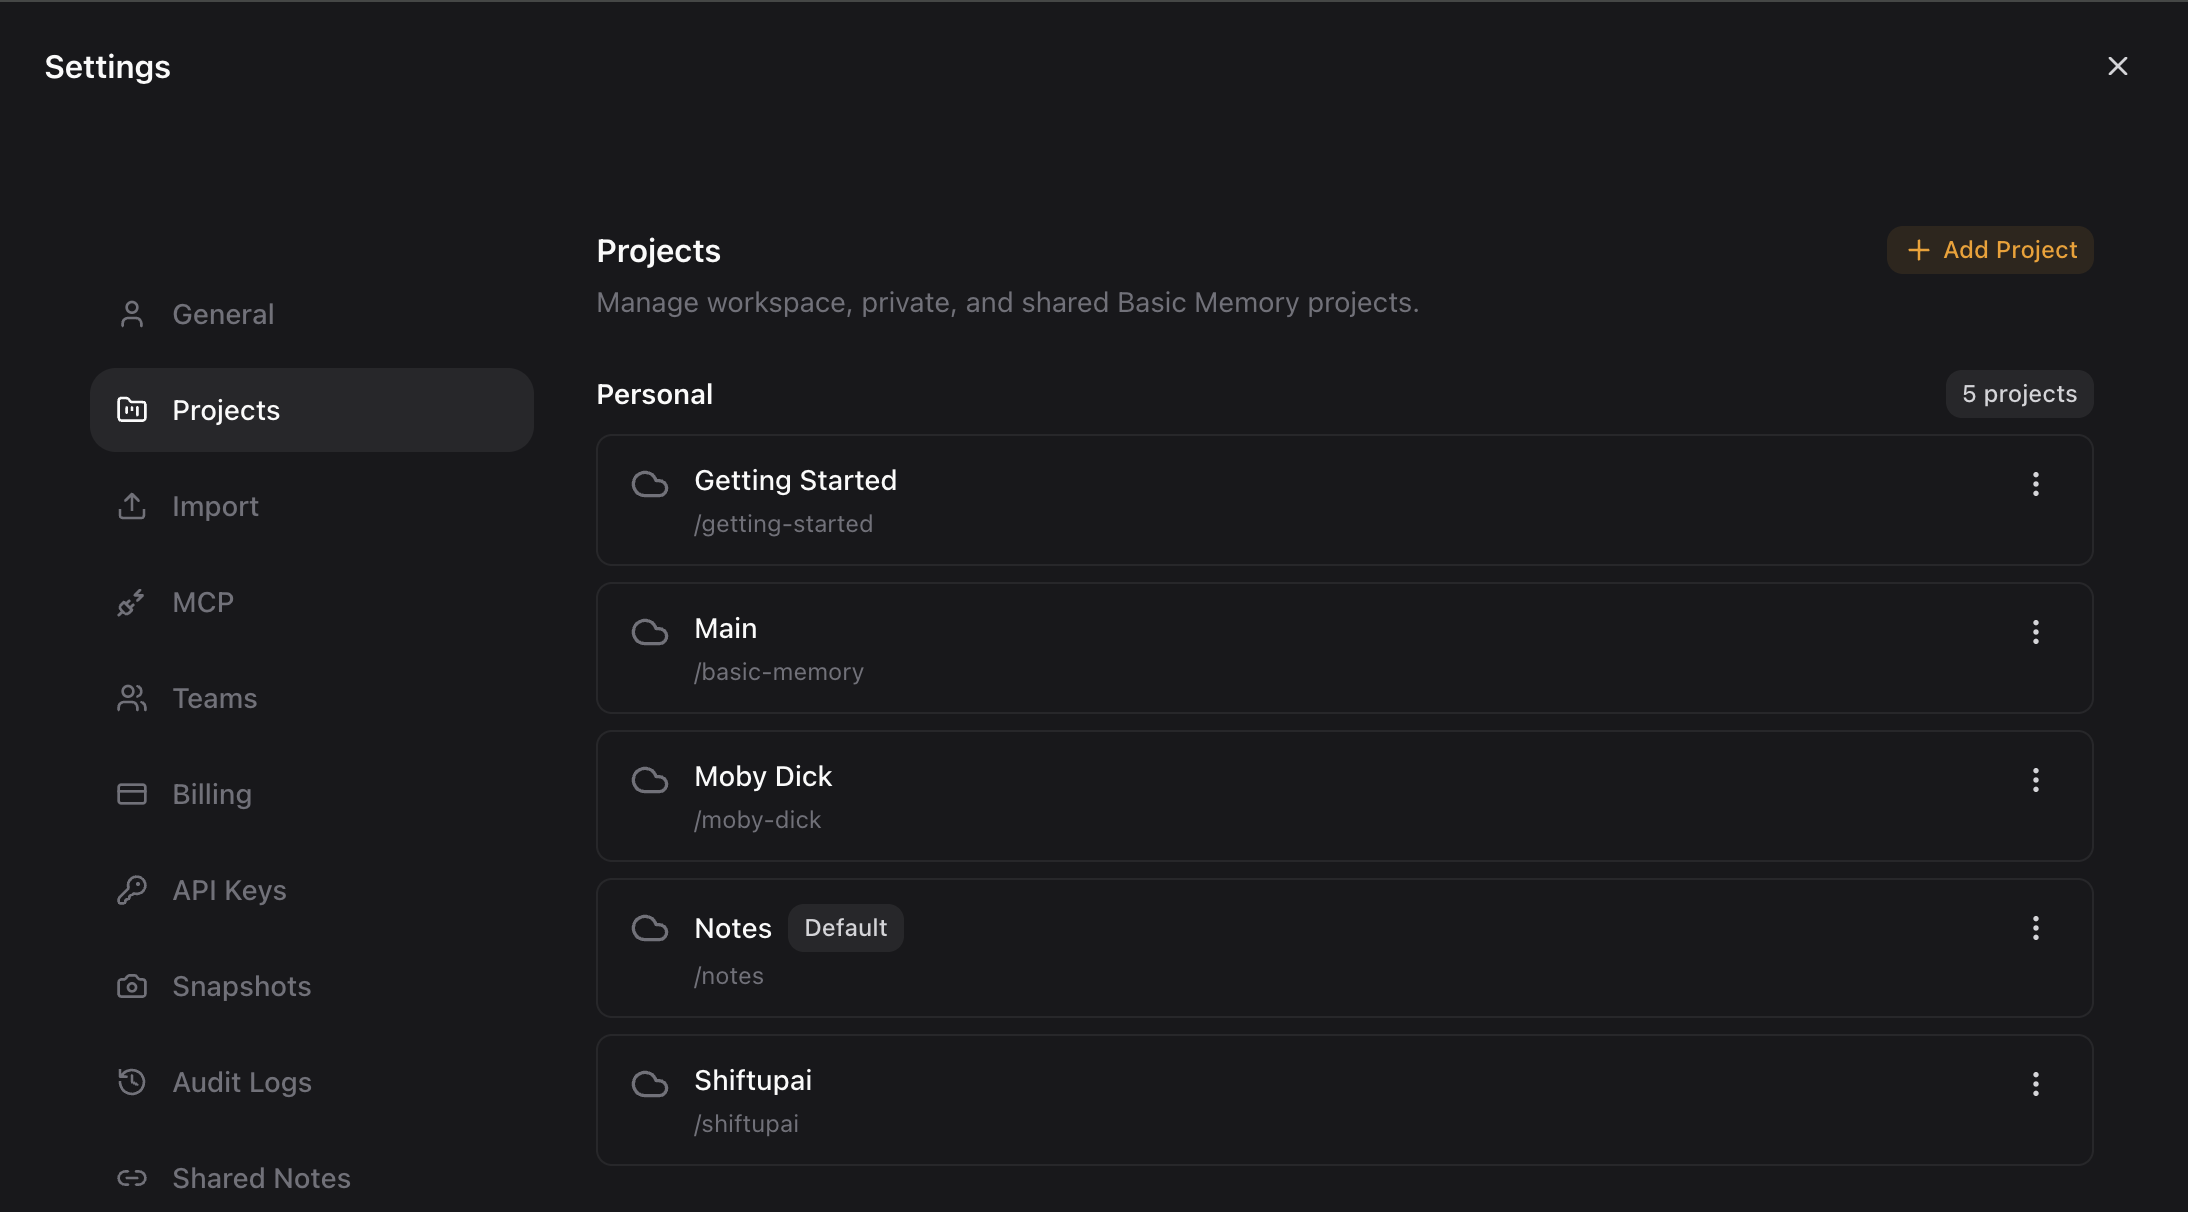
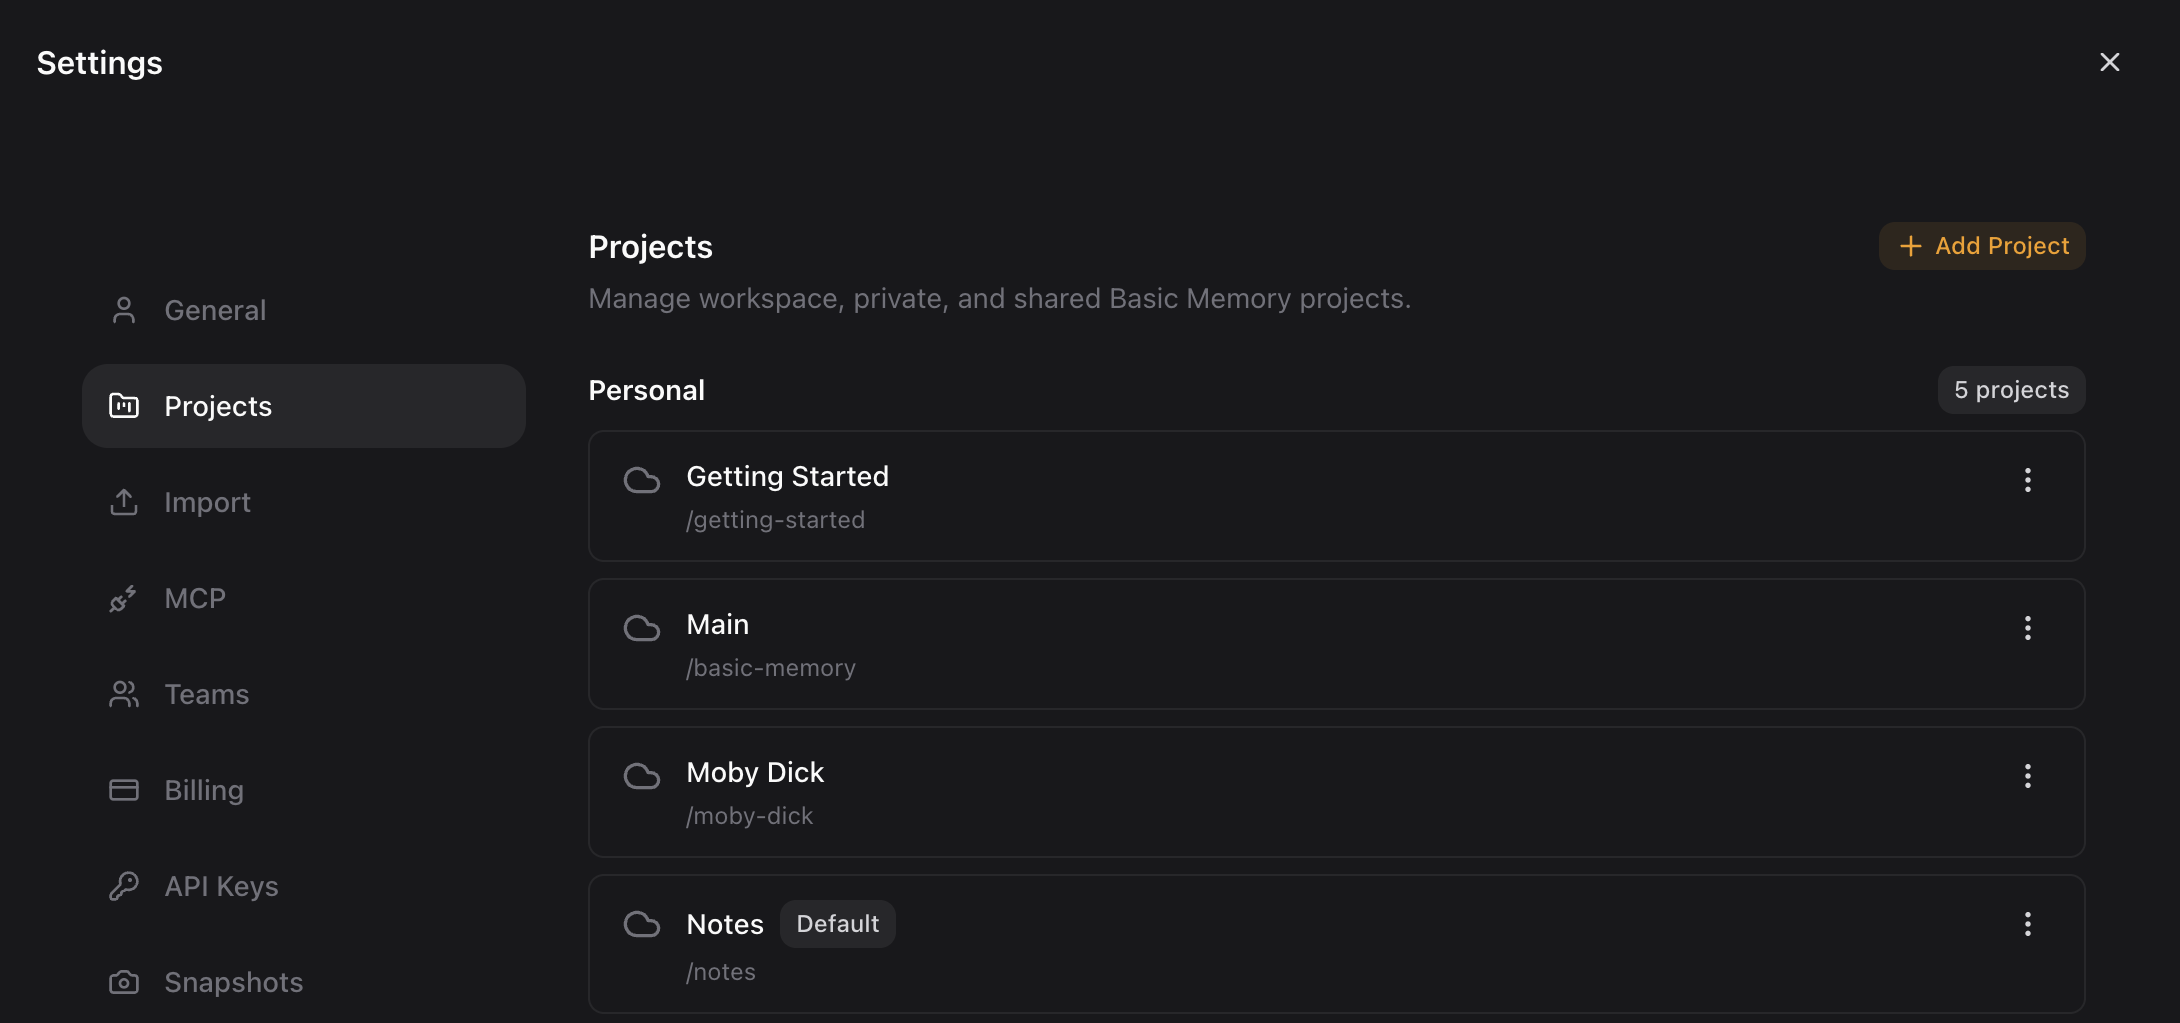
update images, add claude research mode

diff --git a/content/7.integrations/12.claude-research-mode.md b/content/7.integrations/12.claude-research-mode.md
@@ -1,0 +1,82 @@
+---
+title: Claude Research Mode
+description: Why your MCP connectors (including Basic Memory) aren't available during a Claude advanced-research run — and the recommended flow for combining research with your knowledge base.
+---
+
+When you turn on **advanced research**, Claude hands your request to a dedicated research agent that works across the web and Google Drive. That agent runs in its own environment and **does not have access to your connected MCP servers** — including Basic Memory, Gmail, Google Calendar, and any other connectors. This is a limitation of research mode itself, not of any individual connector: every MCP connector is unavailable during a research run, in the same way.
+
+What this means in practice:
+
+- **During a research run,** Claude can't read from or write to Basic Memory (or call any other connector's tools). It will research using web and Drive sources only.
+- **After a research run finishes,** control returns to the normal conversation — which _does_ have your connectors. At that point Claude can save the results to Basic Memory, draft an email, add a calendar event, and so on.
+
+So research and your connectors aren't combined in a single step, but they chain cleanly: **research first, then act on the results with your connectors second.**
+
+---
+
+## Recommended flow: research → save to Basic Memory
+
+::steps
+### Turn advanced research on
+
+Toggle **advanced research** in the message composer, then run your query — for example, _"survey how other agent-memory tools expose graph APIs."_
+
+### Wait for the report
+
+Let the research run complete. The report comes back inline in the conversation.
+
+### Turn advanced research off
+
+Use the same toggle to drop back into normal conversation. This is the important step — leaving research on keeps connectors out of reach.
+
+### Ask Claude to save it
+
+Now you're back in the normal tool path. Ask Claude to write up the results — _"Save that as a note in my `research` project"_ — and it can call Basic Memory's [`write_note`](/reference/mcp-tools-reference#write_note) directly.
+::
+
+The same pattern works in reverse for context you already have: if you need Claude to _use_ your Basic Memory notes as input, keep research off and ask normally — Claude can read your notes and reason over them directly. Use research only when you specifically want fresh web/Drive sources.
+
+::tip
+**Which mode do I need?** If the question is "go find out what's out there on the web," use research. If it's "do something with my notes/data," keep research off.
+::
+
+---
+
+## Why this happens
+
+Research mode runs a separate agent with its own toolset (web search, Google Drive). MCP connectors live on the main Claude conversation, not inside the research agent's environment. The research agent doesn't know your connectors exist, so it can't call them — and there's no way to "pass through" a connector during a research run.
+
+This is the same for **every** MCP connector, not specific to Basic Memory. If you have a workflow that wants both web research _and_ your private knowledge base in a single step, today the answer is to run them sequentially: research first, then a follow-up turn that uses your connectors on the results.
+
+---
+
+## Related
+
+:::card-group
+::card
+---
+title: Claude Desktop
+icon: i-lucide-monitor
+to: /integrations/claude-desktop
+---
+Connect Basic Memory to Claude Desktop or Claude on the web.
+::
+
+::card
+---
+title: MCP Tools Reference
+icon: i-lucide-wrench
+to: /reference/mcp-tools-reference
+---
+Every tool Claude can call when research mode is off.
+::
+
+::card
+---
+title: Web App
+icon: i-lucide-layout-dashboard
+to: /cloud/web-app
+---
+Save and organize research results in the cloud app.
+::
+:::

diff --git a/content/7.integrations/1.claude-desktop.md b/content/7.integrations/1.claude-desktop.md
@@ -82,6 +82,7 @@ You can also reference specific notes with `memory://` URLs. Learn more in [Memo
 ### Tools not appearing
 - **Cloud**: Re-open Claude Desktop after adding the connector. Check that the connector URL is exactly `https://cloud.basicmemory.com/mcp`.
 - **Local**: Verify `uv` is installed (`which uvx`), check config JSON syntax, and restart Claude Desktop.
+- **Advanced research is on**: Research mode runs in a separate environment that can't reach any MCP connectors. See [Claude Research Mode](/integrations/claude-research-mode).
 
 ### Tools appear but return errors
 - Check Basic Memory is installed: `basic-memory --version`